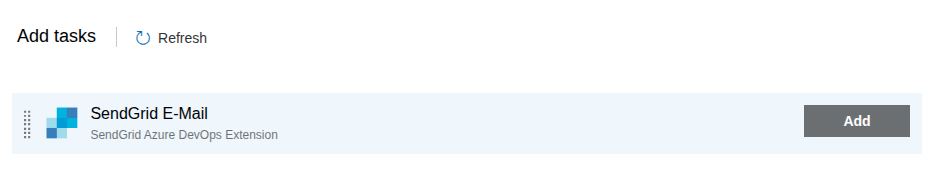
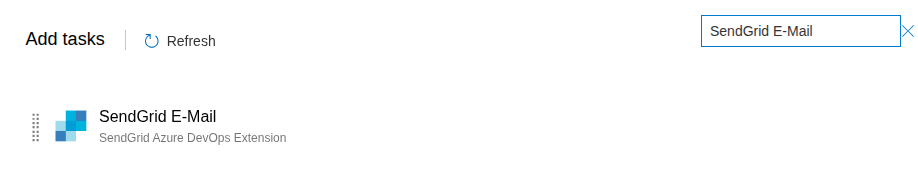
update screenshot and fix link

diff --git a/README.md b/README.md
@@ -1,11 +1,11 @@
 <!-- markdownlint-disable MD034 -->
 <!-- markdownlint-disable MD041 -->
-[![Visual Studio Marketplace](https://img.shields.io/badge/Visual%20Studio%20Marketplace-install-brightgreen.svg?style=flat-square)](https://marketplace.visualstudio.com/items?itemName=kasunkodagoda.sendgrid-email)
+[![Visual Studio Marketplace](https://img.shields.io/badge/Visual%20Studio%20Marketplace-install-brightgreen.svg?style=flat-square)](https://marketplace.visualstudio.com/items?itemName=BFoust.su-sendgrid)
 [![license](https://img.shields.io/github/license/mashape/apistatus.svg?style=flat-square)](https://github.com/bffoust/devops-sendgrid-task/blob/rc/LICENSE.md)
 
 # SendGrid E-mail Task
 
-Easily send emails from your Azure DevOps pipelines using SendGrid. This task allows you to configure recipients, subject, and body content, with support for both HTML and plain text emails.
+Easily send e-mails from your Azure DevOps pipelines using SendGrid. This task allows you to configure recipients, subject, and body content, with support for both HTML and plain text e-mails.
 
 ## Prerequisites
 
@@ -16,6 +16,8 @@ Easily send emails from your Azure DevOps pipelines using SendGrid. This task al
 
 Install the SendGrid E-mail Task in your Azure DevOps organization. Find it in the _Utility_ section of the task list and add it to your build or release pipeline.
 
+![Add SendGrid E-mail Task](https://github.com/bffoust/devops-sendgrid-task/blob/rc/images/AddTask.png)
+
 ## Configuration
 
 ### SendGrid Settings
@@ -24,11 +26,13 @@ Install the SendGrid E-mail Task in your Azure DevOps organization. Find it in t
 
 ### E-mail Settings
 
-* **Sender Email Address**: The sender's email address. You may specify just the email (e.g., alex.johnson@example.com) or include a display name (e.g., Alex Johnson <alex.johnson@example.com>). _(Required)_
-* **Recipient Email Addresses**: One or more recipient email addresses, separated by commas. You may also include display names. _(Required)_
-* **Subject**: The subject line for the email. _(Required)_
-* **Email Body**: The content of the email. You can provide the body in two ways:
-  * **Text**: Enter the email body directly as text.
-  * **Local File**: Specify a local file path to load the email body content from a file.
+* **Sender Email Address**: The sender's e-mail address. You may specify just the e-mail (e.g., alex.johnson@example.com) or include a display name (e.g., Alex Johnson <alex.johnson@example.com>). _(Required)_
+* **Recipient Email Addresses**: One or more recipient e-mail addresses, separated by commas. You may also include display names. _(Required)_
+* **Subject**: The subject line for the e-mail. _(Required)_
+* **Email Body**: The content of the e-mail. You can provide the body in two ways:
+  * **Text**: Enter the e-mail body directly as text.
+  * **Local File**: Specify a local file path to load the e-mail body content from a file.
   To send HTML, enter your HTML here or in the file and check the _Send as HTML_ option. _(Required)_
-* **Send as HTML**: Enable this option to send the email body as HTML. _(Optional)_
+* **Send as HTML**: Enable this option to send the e-mail body as HTML. _(Optional)_
+
+![Add SendGrid E-mail Task](https://github.com/bffoust/devops-sendgrid-task/blob/rc/images/Configure.png)

diff --git a/overview.md b/overview.md
@@ -1,11 +1,11 @@
 <!-- markdownlint-disable MD034 -->
 <!-- markdownlint-disable MD041 -->
-[![Visual Studio Marketplace](https://img.shields.io/badge/Visual%20Studio%20Marketplace-install-brightgreen.svg?style=flat-square)](https://marketplace.visualstudio.com/items?itemName=kasunkodagoda.sendgrid-email)
+[![Visual Studio Marketplace](https://img.shields.io/badge/Visual%20Studio%20Marketplace-install-brightgreen.svg?style=flat-square)](https://marketplace.visualstudio.com/items?itemName=BFoust.su-sendgrid)
 [![license](https://img.shields.io/github/license/mashape/apistatus.svg?style=flat-square)](https://github.com/bffoust/devops-sendgrid-task/blob/rc/LICENSE.md)
 
 # SendGrid E-mail Task
 
-Easily send emails from your Azure DevOps pipelines using SendGrid. This task allows you to configure recipients, subject, and body content, with support for both HTML and plain text emails.
+Easily send e-mails from your Azure DevOps pipelines using SendGrid. This task allows you to configure recipients, subject, and body content, with support for both HTML and plain text e-mails.
 
 ## Prerequisites
 
@@ -26,13 +26,13 @@ Install the SendGrid E-mail Task in your Azure DevOps organization. Find it in t
 
 ### E-mail Settings
 
-* **Sender Email Address**: The sender's email address. You may specify just the email (e.g., alex.johnson@example.com) or include a display name (e.g., Alex Johnson <alex.johnson@example.com>). _(Required)_
-* **Recipient Email Addresses**: One or more recipient email addresses, separated by commas. You may also include display names. _(Required)_
-* **Subject**: The subject line for the email. _(Required)_
-* **Email Body**: The content of the email. You can provide the body in two ways:
-  * **Text**: Enter the email body directly as text.
-  * **Local File**: Specify a local file path to load the email body content from a file.
+* **Sender Email Address**: The sender's e-mail address. You may specify just the e-mail (e.g., alex.johnson@example.com) or include a display name (e.g., Alex Johnson <alex.johnson@example.com>). _(Required)_
+* **Recipient Email Addresses**: One or more recipient e-mail addresses, separated by commas. You may also include display names. _(Required)_
+* **Subject**: The subject line for the e-mail. _(Required)_
+* **Email Body**: The content of the e-mail. You can provide the body in two ways:
+  * **Text**: Enter the e-mail body directly as text.
+  * **Local File**: Specify a local file path to load the e-mail body content from a file.
   To send HTML, enter your HTML here or in the file and check the _Send as HTML_ option. _(Required)_
-* **Send as HTML**: Enable this option to send the email body as HTML. _(Optional)_
+* **Send as HTML**: Enable this option to send the e-mail body as HTML. _(Optional)_
 
 ![Add SendGrid E-mail Task](https://github.com/bffoust/devops-sendgrid-task/blob/rc/images/Configure.png)
